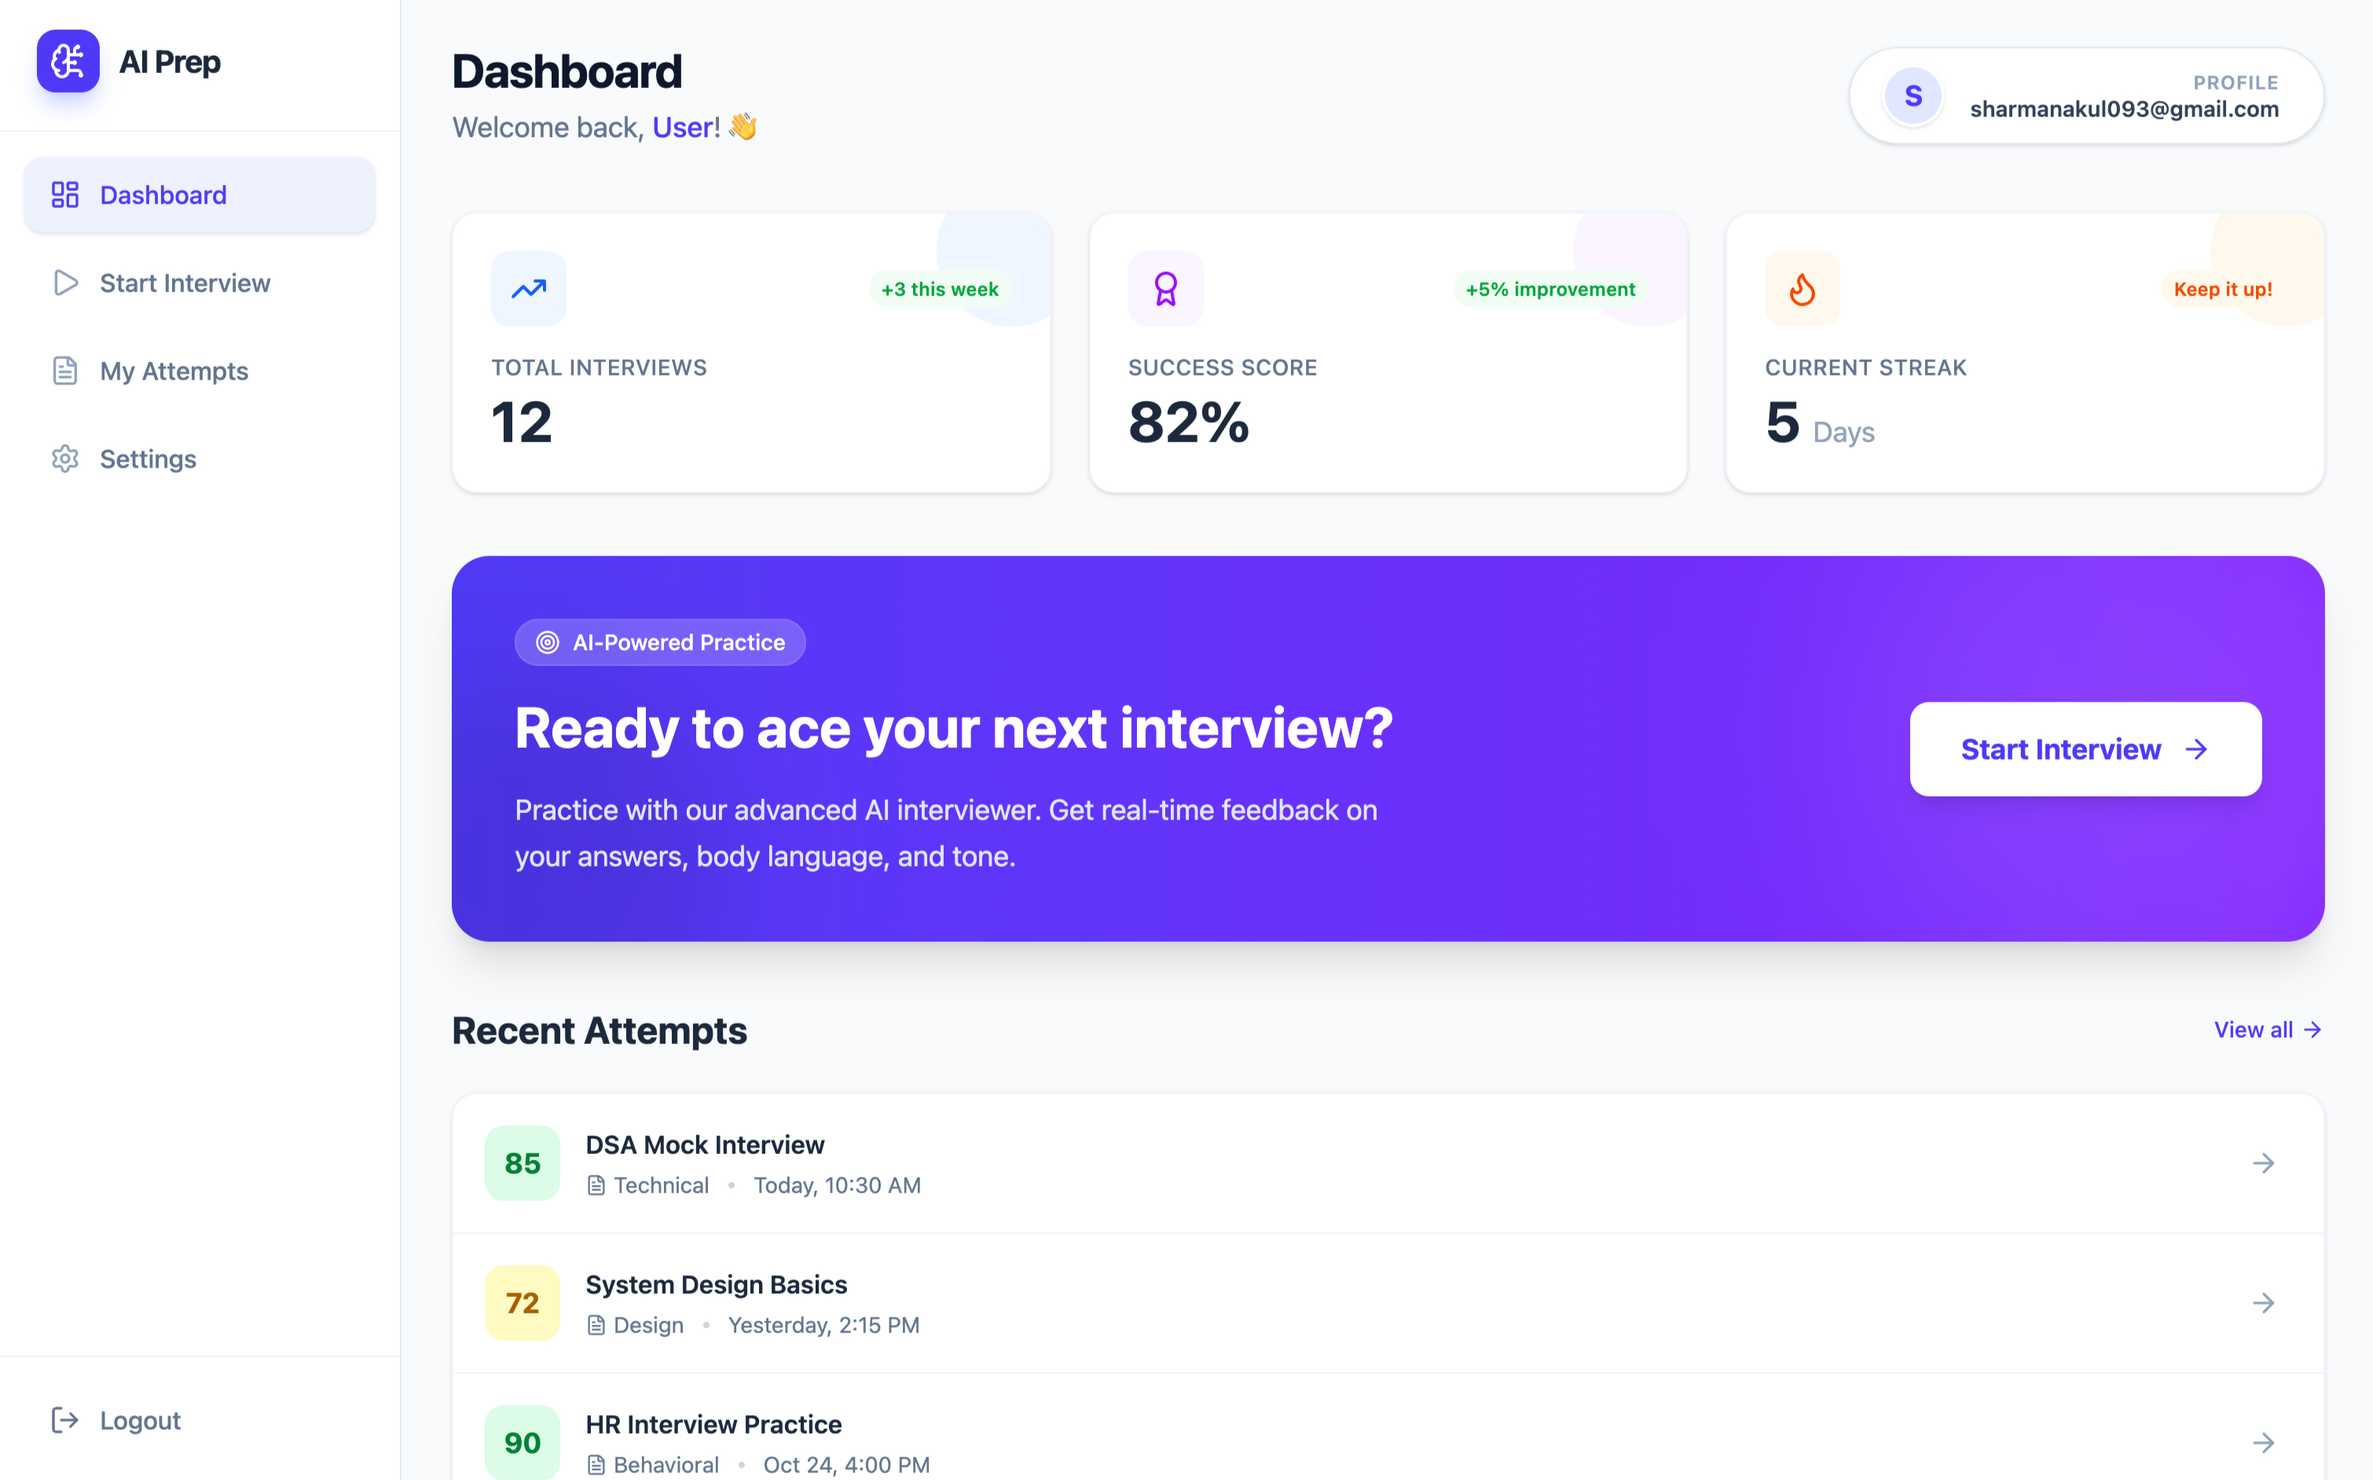
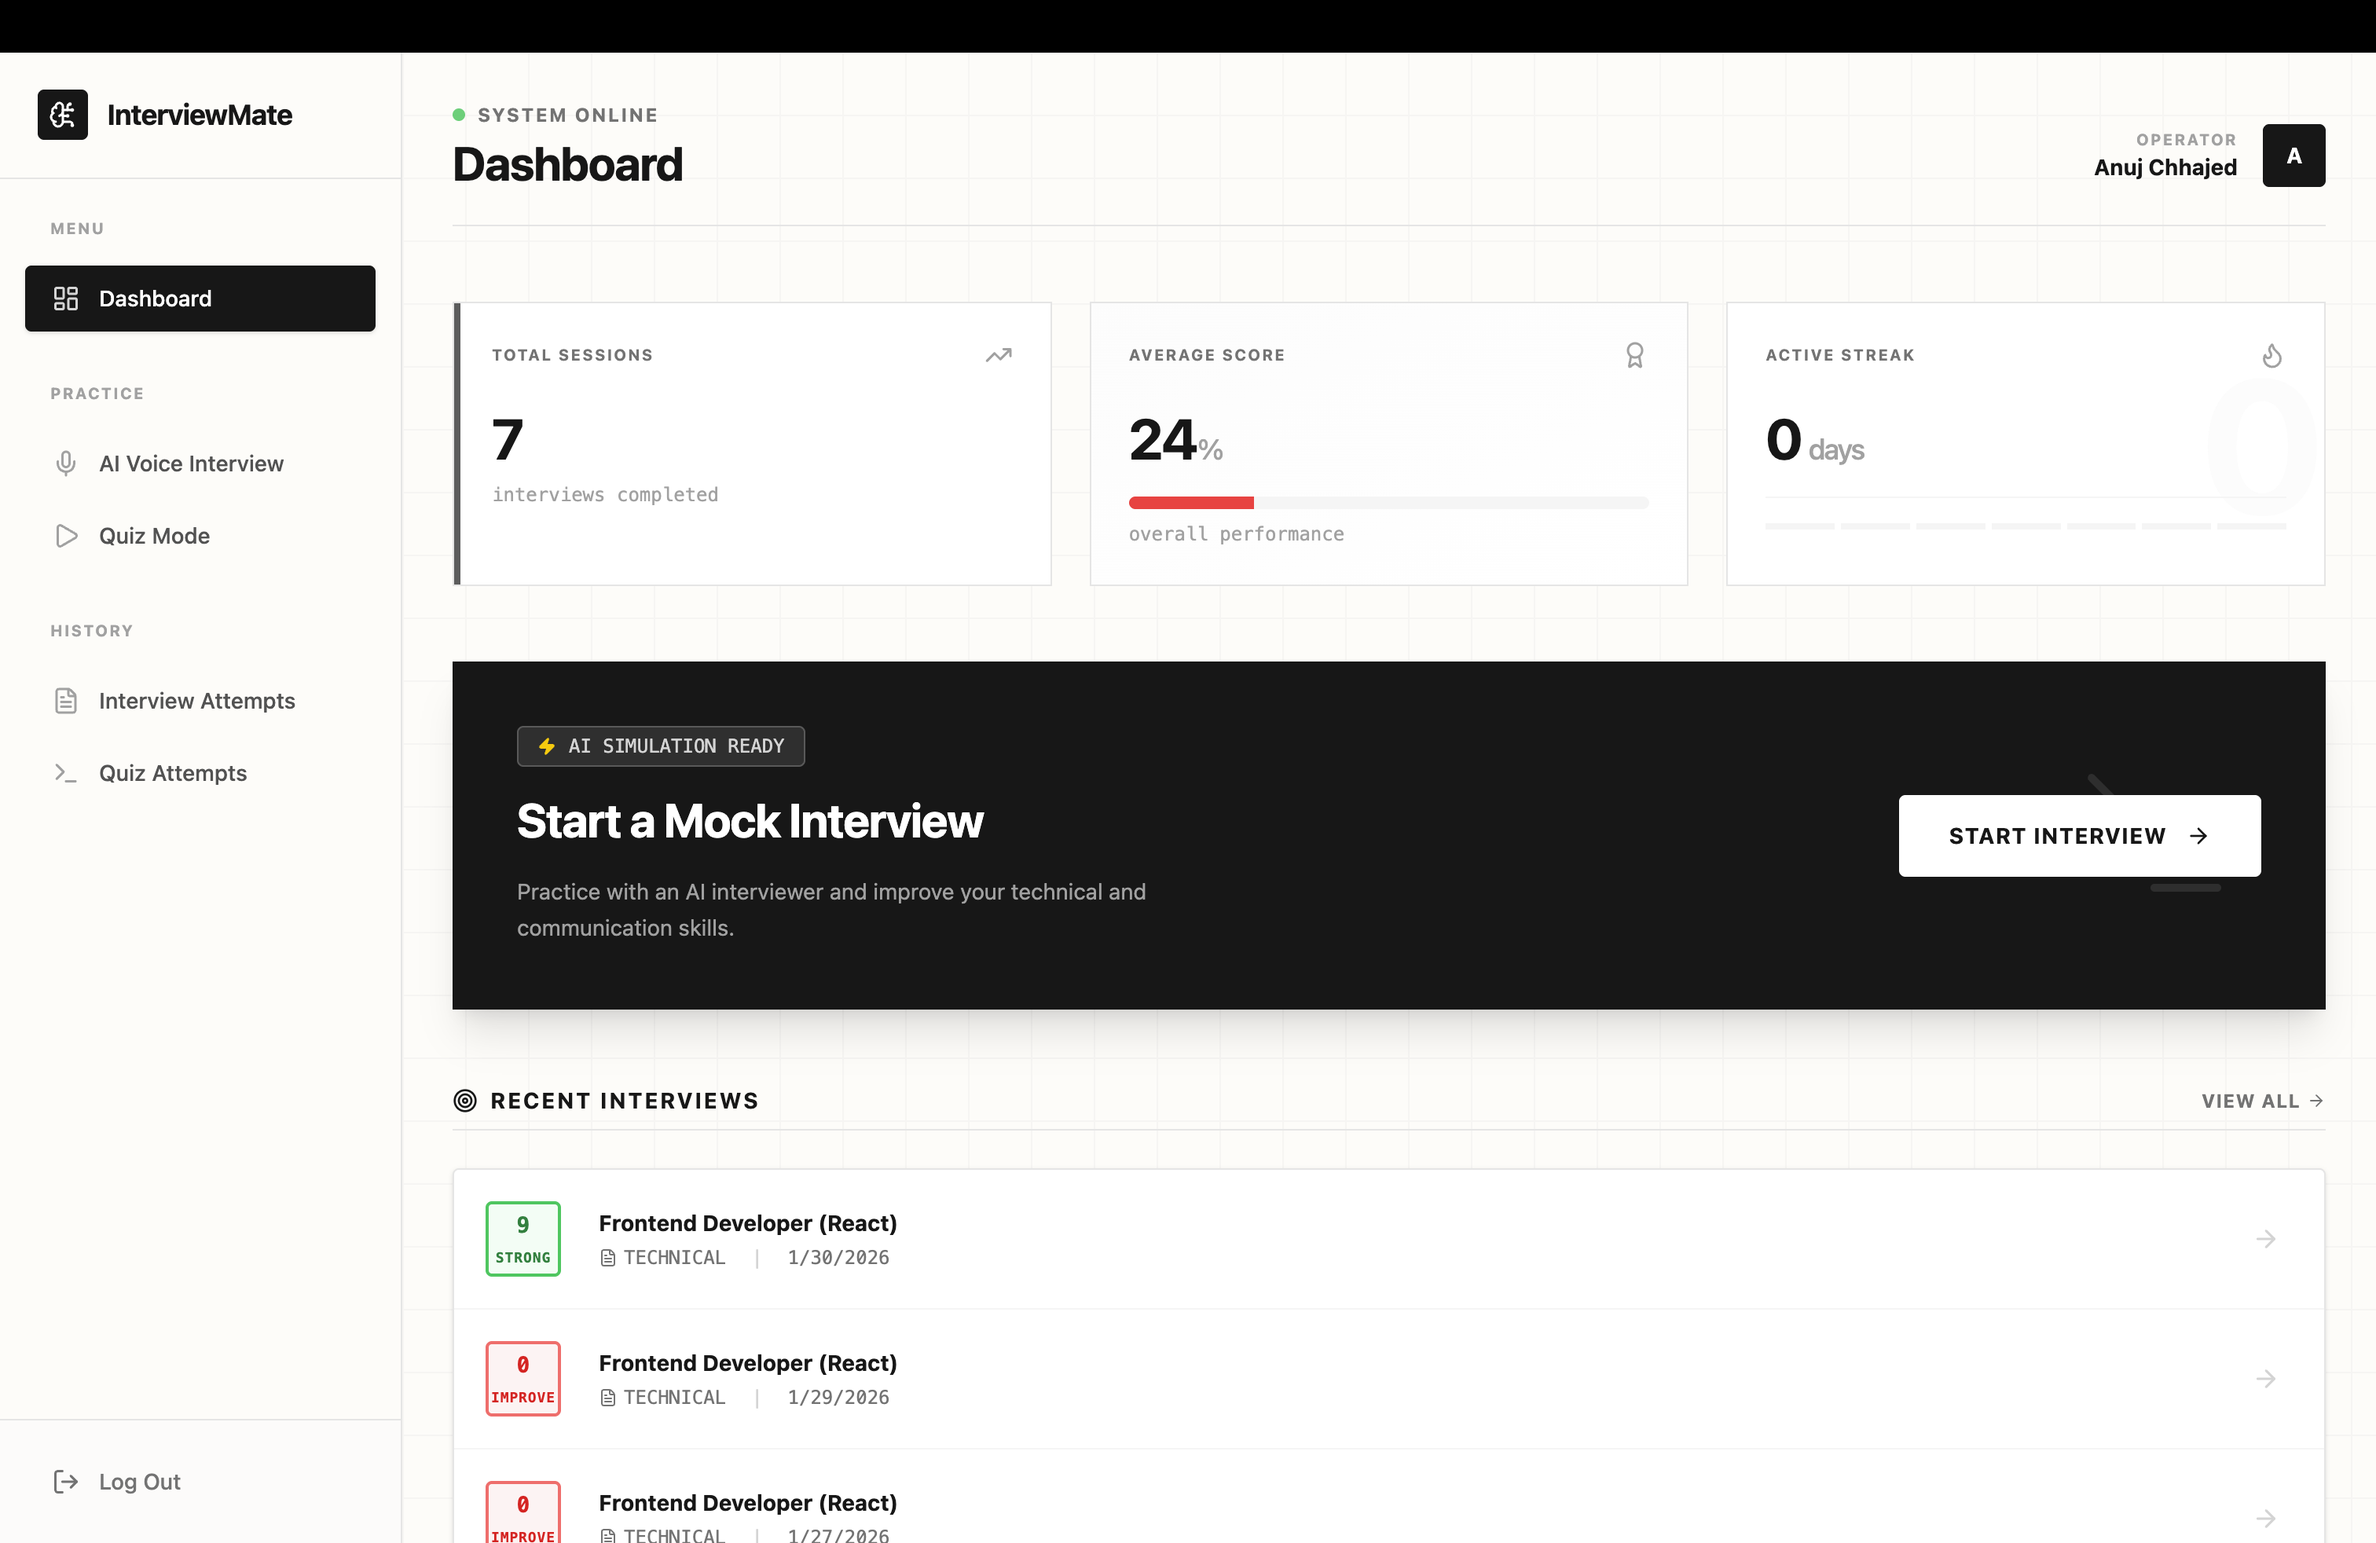
updated UI of sidebar

diff --git a/frontend/src/components/sidebar.jsx b/frontend/src/components/sidebar.jsx
@@ -1,5 +1,5 @@
 import React, { useState } from 'react'
-import { LayoutDashboard, Play, FileText, Settings, LogOut, BrainCircuit, Mic } from "lucide-react";
+import { LayoutDashboard, Play, FileText, LogOut, BrainCircuit, Mic, Terminal, ShieldAlert } from "lucide-react";
 import { useNavigate, useLocation } from "react-router-dom";
 
 const Sidebar = () => {
@@ -25,63 +25,78 @@ const Sidebar = () => {
   return (
     <>
       {/* SIDEBAR */}
-      <aside className="h-screen w-64 bg-white border-r border-slate-200 hidden md:flex flex-col sticky top-0 z-50">
-
-        <div className="p-6 border-b border-slate-100">
+      <aside className="h-screen w-64 bg-[#FDFCF8] border-r border-neutral-200 hidden md:flex flex-col sticky top-0 z-50 font-sans">
+        
+        {/* Header / Logo */}
+        <div className="p-6 border-b border-neutral-200">
           <div className="flex items-center gap-3">
-            <div className="w-10 h-10 bg-indigo-600 rounded-xl flex items-center justify-center shadow-lg shadow-indigo-200">
-              <BrainCircuit className="text-white" size={24} />
+            <div className="w-8 h-8 bg-neutral-900 rounded-sm flex items-center justify-center">
+              <BrainCircuit className="text-white" size={18} />
             </div>
-            <h2 className="text-xl font-bold text-slate-800 font-['Plus_Jakarta_Sans'] tracking-tight">
+            <h2 className="text-lg font-bold text-neutral-900 tracking-tight">
               InterviewMate
             </h2>
           </div>
         </div>
 
-        <nav className="flex-1 p-4 space-y-2 overflow-y-auto">
+        {/* Navigation */}
+        <nav className="flex-1 p-4 space-y-1 overflow-y-auto">
+          <div className="px-4 py-2 mb-2">
+            <p className="text-[10px] font-bold uppercase tracking-widest text-neutral-400">Menu</p>
+          </div>
+          
           <SidebarItem
-            icon={<LayoutDashboard size={20} />}
+            icon={<LayoutDashboard size={18} />}
             label="Dashboard"
             active={isActive("/dashboard")}
             onClick={() => navigate("/dashboard")}
           />
 
+          <div className="px-4 py-2 mt-6 mb-2">
+            <p className="text-[10px] font-bold uppercase tracking-widest text-neutral-400">Practice</p>
+          </div>
+
           <SidebarItem
-            icon={<Mic size={20} />}
+            icon={<Mic size={18} />}
             label="AI Voice Interview"
             active={isActive("/interview/start")}
             onClick={() => navigate("/interview/start")}
           />
 
           <SidebarItem
-            icon={<Play size={20} />}
-            label="Interview (MCQ)"
+            icon={<Play size={18} />}
+            label="Quiz Mode"
             active={isActive("/interview")}
             onClick={() => navigate("/interview")}
           />
 
+          <div className="px-4 py-2 mt-6 mb-2">
+             <p className="text-[10px] font-bold uppercase tracking-widest text-neutral-400">History</p>
+          </div>
+
           <SidebarItem
-            icon={<FileText size={20} />}
-            label="AI Interviews"
+            icon={<FileText size={18} />}
+            label="Interview Attempts"
             active={isActive("/ai-attempts")}
             onClick={() => navigate("/ai-attempts")}
           />
 
           <SidebarItem
-            icon={<FileText size={20} />}
-            label="MCQ Attempts"
+            icon={<Terminal size={18} />}
+            label="Quiz Attempts"
             active={isActive("/my-attempts")}
             onClick={() => navigate("/my-attempts")}
           />
         </nav>
 
-        <div className="p-4 border-t border-slate-100">
+        {/* Footer / Logout */}
+        <div className="p-4 border-t border-neutral-200 bg-neutral-50/50">
           <button
             onClick={openLogoutModal}
-            className="w-full flex items-center gap-3 px-4 py-3 text-slate-500 hover:text-red-600 hover:bg-red-50 rounded-xl transition-all duration-200 font-medium group"
+            className="w-full flex items-center gap-3 px-4 py-3 text-neutral-500 hover:text-red-700 hover:bg-red-50 rounded-sm transition-all duration-200 font-medium group text-sm border border-transparent hover:border-red-100 cursor-pointer"
           >
-            <LogOut size={20} className="group-hover:-translate-x-1 transition-transform" />
-            Logout
+            <LogOut size={18} className="group-hover:-translate-x-1 transition-transform" />
+            Log Out
           </button>
         </div>
 
@@ -92,31 +107,39 @@ const Sidebar = () => {
         <div className="fixed inset-0 flex items-center justify-center z-[9999]">
           {/* BACKDROP */}
           <div 
-            className="absolute inset-0 bg-black/40 backdrop-blur-sm animate-fadeIn"
+            className="absolute inset-0 bg-neutral-900/40 backdrop-blur-sm animate-fadeIn"
             onClick={closeLogoutModal}
           />
 
-          {/* MODAL BOX */}
-          <div className="bg-white rounded-2xl shadow-xl p-6 w-80 z-50 animate-scaleUp">
-            <h2 className="text-lg font-semibold text-slate-800">Confirm Logout</h2>
-            <p className="text-slate-600 mt-1">
-              Are you sure you want to log out?
-            </p>
+          {/* MODAL BOX - Sharp, Technical */}
+          <div className="bg-white border border-neutral-200 shadow-2xl p-0 w-96 z-50 relative animate-scaleUp rounded-sm">
+            {/* Modal Header */}
+            <div className="bg-neutral-50 px-6 py-4 border-b border-neutral-200 flex items-center gap-2">
+               <ShieldAlert size={16} className="text-neutral-500"/>
+               <h2 className="text-sm font-bold uppercase tracking-widest text-neutral-700">Confirm Logout</h2>
+            </div>
+            
+            {/* Modal Body */}
+            <div className="p-6">
+              <p className="text-neutral-600 text-sm leading-relaxed">
+                Are you sure you want to log out of your session? Unsaved progress may be lost.
+              </p>
 
-            <div className="flex justify-end gap-3 mt-6">
-              <button
-                onClick={closeLogoutModal}
-                className="px-4 py-2 rounded-xl bg-slate-100 text-slate-700 hover:bg-slate-200 transition"
-              >
-                Cancel
-              </button>
+              <div className="flex justify-end gap-3 mt-8">
+                <button
+                  onClick={closeLogoutModal}
+                  className="px-6 py-2 rounded-sm border border-neutral-200 text-neutral-600 text-sm font-medium hover:bg-neutral-50 hover:text-neutral-900 transition-colors cursor-pointer"
+                >
+                  Cancel
+                </button>
 
-              <button
-                onClick={handleLogout}
-                className="px-4 py-2 rounded-xl bg-red-600 text-white hover:bg-red-700 transition"
-              >
-                Logout
-              </button>
+                <button
+                  onClick={handleLogout}
+                  className="px-6 py-2 rounded-sm bg-neutral-900 text-white text-sm font-bold hover:bg-red-600 transition-colors shadow-sm cursor-pointer"
+                >
+                  Log Out
+                </button>
+              </div>
             </div>
           </div>
         </div>
@@ -125,17 +148,18 @@ const Sidebar = () => {
   );
 };
 
+// Sidebar Item - High Contrast Active State
 const SidebarItem = ({ icon, label, active, onClick }) => (
   <button
     onClick={onClick}
-    className={`w-full flex items-center gap-3 px-4 py-3 rounded-xl font-medium transition-all duration-200
+    className={`w-full flex items-center gap-3 px-4 py-2.5 rounded-sm text-sm font-medium transition-all duration-150 border
       ${active
-        ? "bg-indigo-50 text-indigo-600 shadow-sm"
-        : "text-slate-500 hover:bg-slate-50 hover:text-slate-900"
+        ? "bg-neutral-900 text-white border-neutral-900 shadow-sm"
+        : "text-neutral-600 border-transparent hover:bg-neutral-100 hover:text-neutral-900 hover:border-neutral-200 cursor-pointer"
       }
     `}
   >
-    <div className={`${active ? "text-indigo-600" : "text-slate-400"}`}>
+    <div className={`${active ? "text-neutral-300" : "text-neutral-400 group-hover:text-neutral-900"}`}>
       {icon}
     </div>
     {label}
